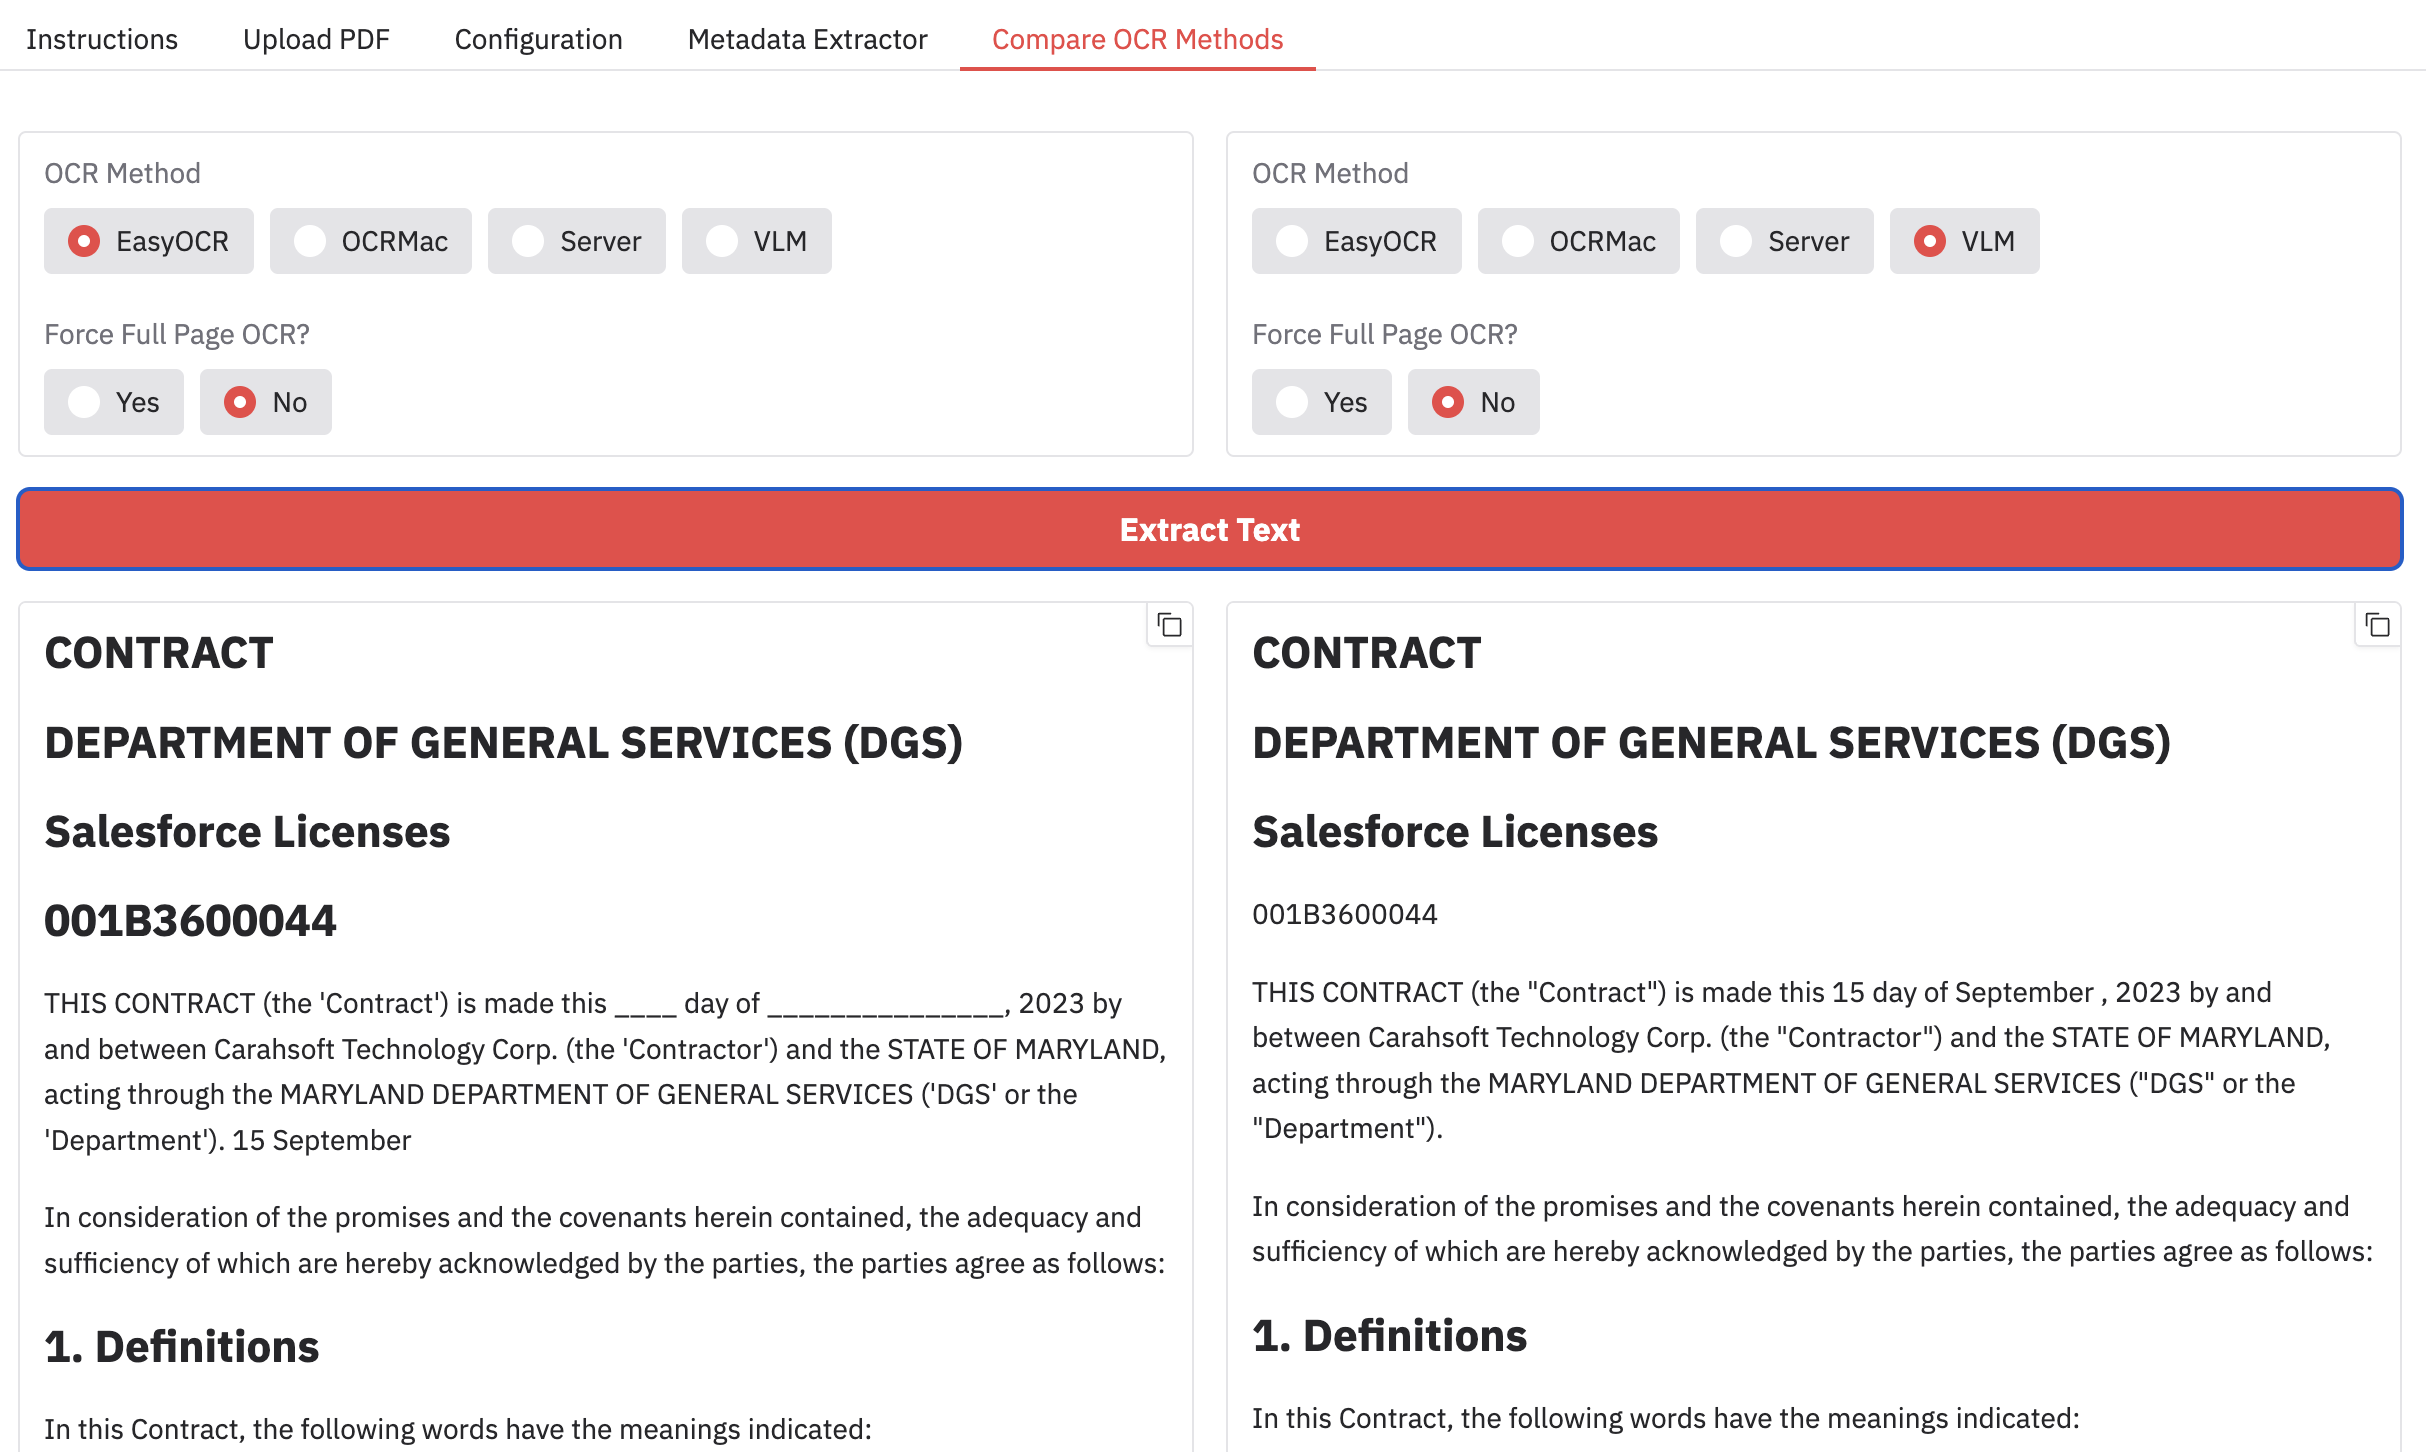
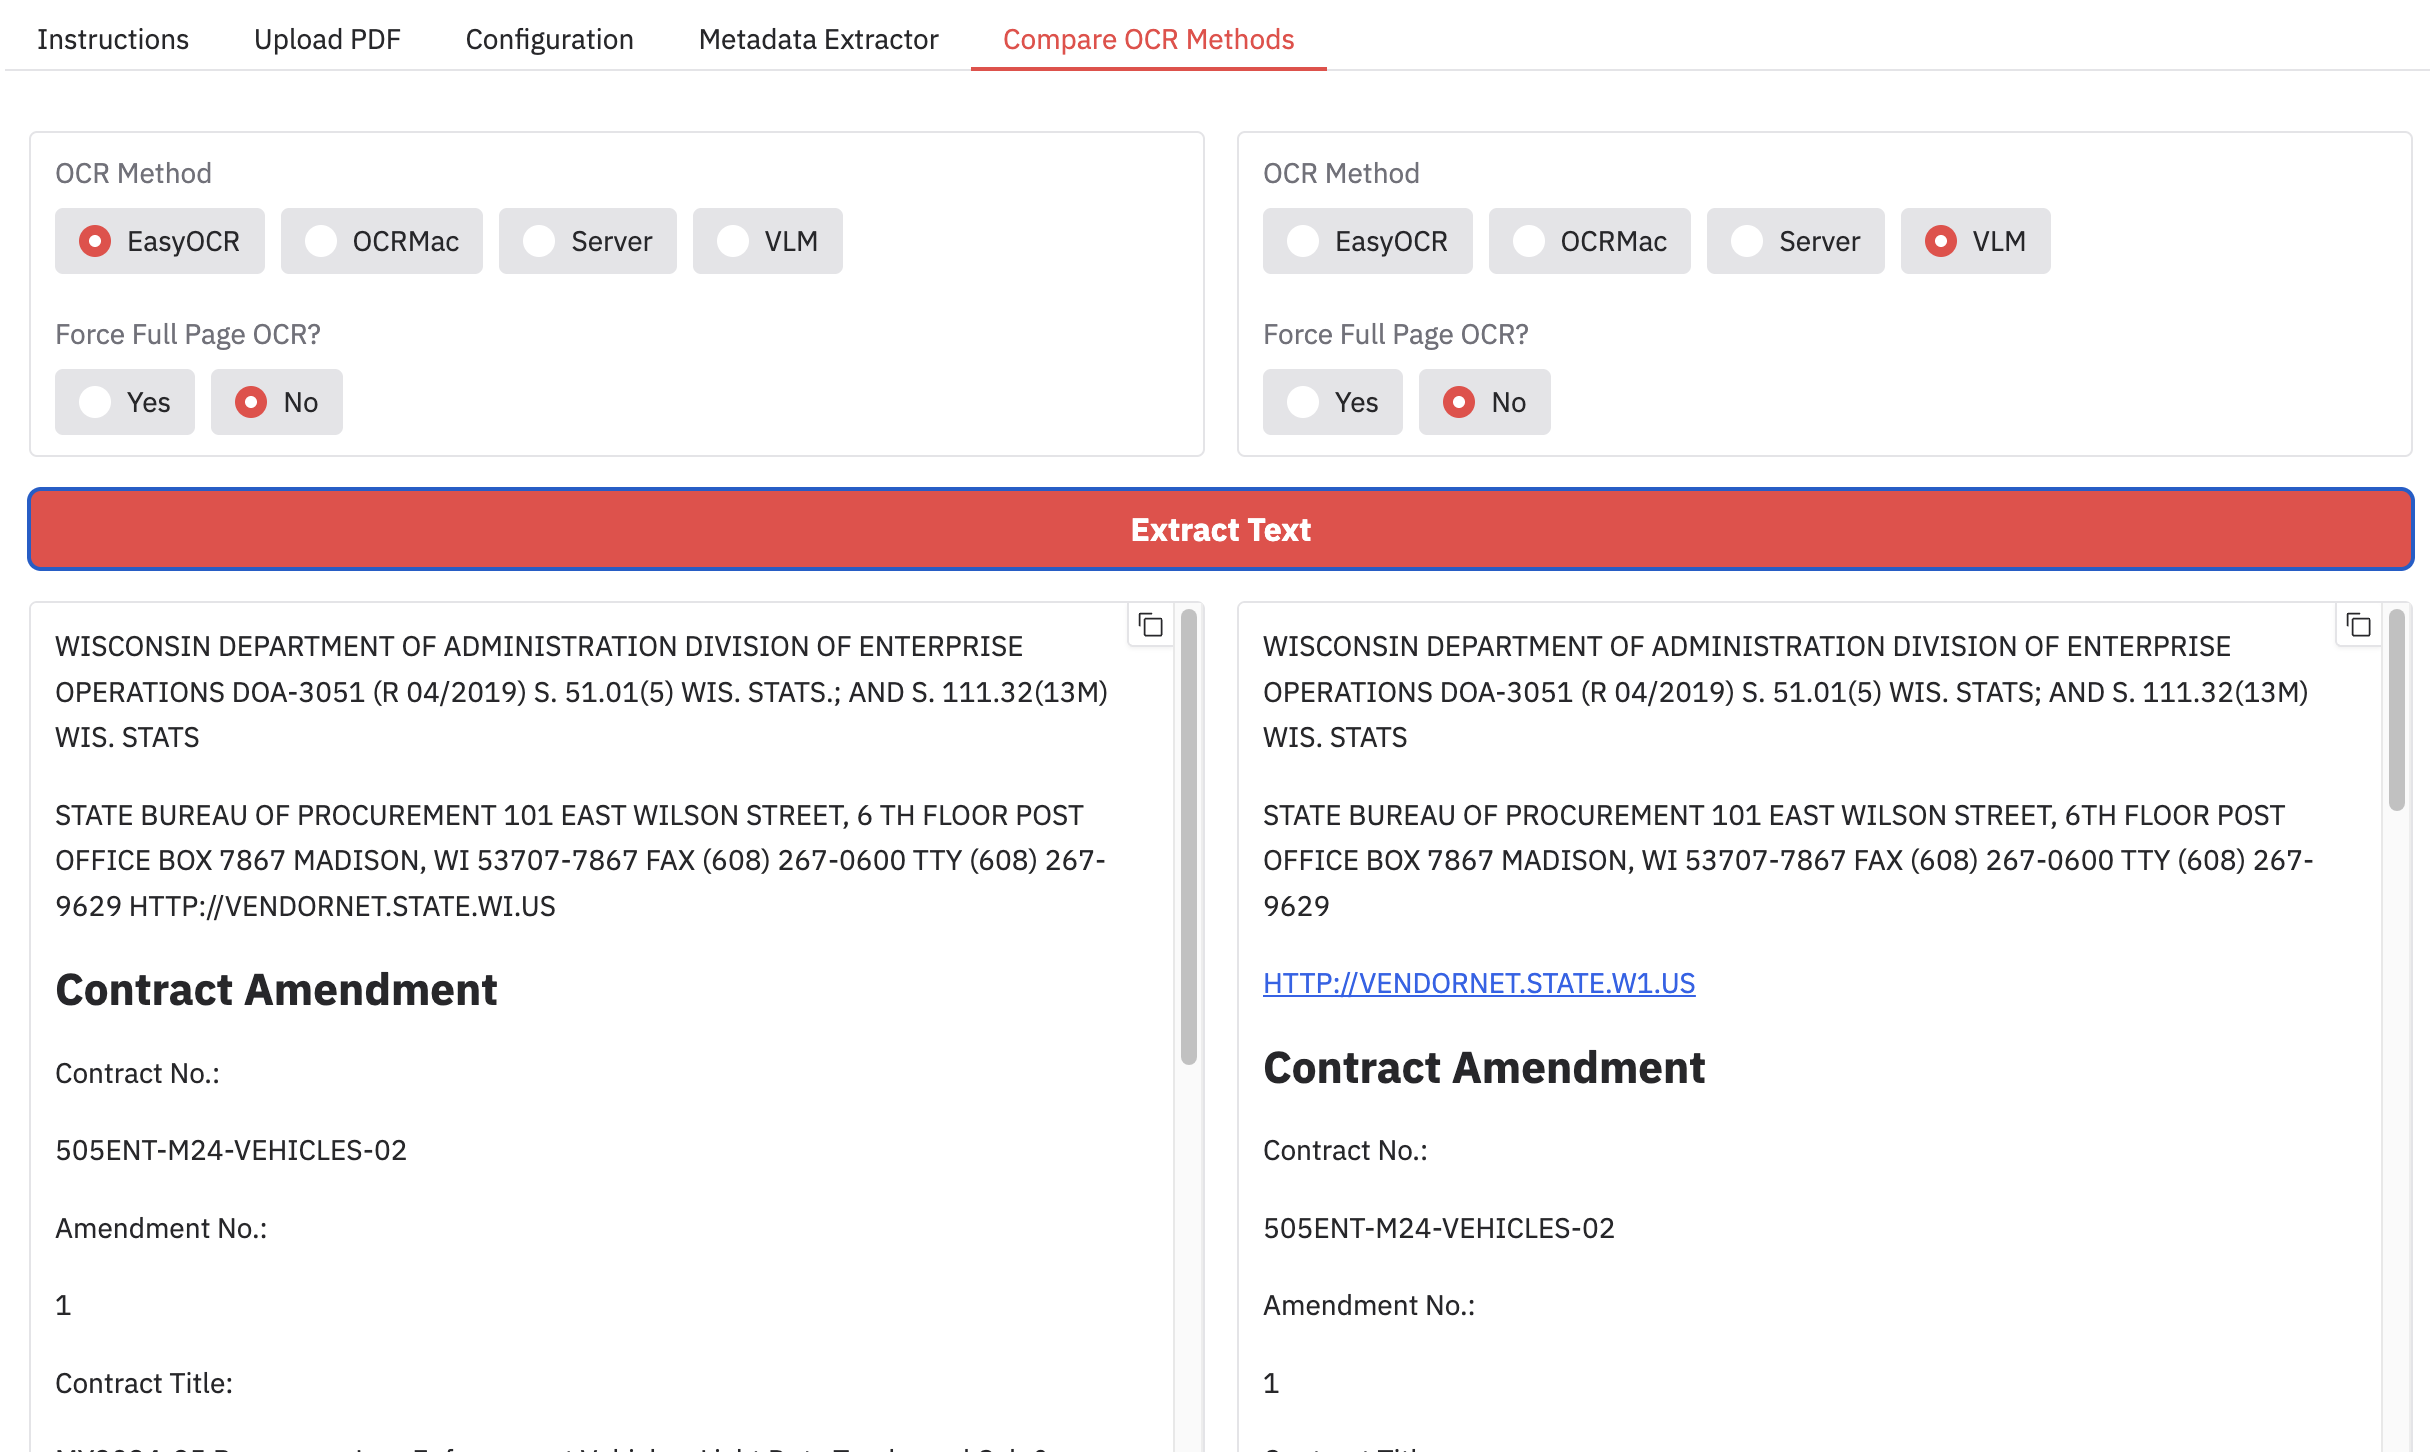
:memo: Update documentation with new example

diff --git a/README.md b/README.md
@@ -14,6 +14,7 @@ Demo showcasing metadata extraction from PDFs using a combination of Docling and
       - [Option 2. Setup With Remote LLM (vLLM, OpenAI, etc.) and/or Docling Server](#option-2-setup-with-remote-llm-vllm-openai-etc-andor-docling-server)
   - [Run the Demo Locally](#run-the-demo-locally)
   - [Run the Demo with Docker/Podman](#run-the-demo-with-dockerpodman)
+  - [Acknowledgments](#acknowledgments)
 
 ## Features
 
@@ -102,3 +103,7 @@ _This option requires that you have either [Podman](https://podman.io/) or [Dock
 
 > [!WARNING]  
 > Docling OCR does not perform well on Mac in containers. If you are using Mac, consider running the demo locally, not forcing full page OCR, or using remote Docling instead. See [#1121](https://github.com/docling-project/docling/issues/1121).
+
+## Acknowledgments
+
+The [contract](https://vendornet.wi.gov/Contract.aspx?Id=dfa85fb8-c9d5-ee11-904e-00505684483d) used in the demo is a publicly available PDF provided by Wisconsin State's [VendorNet](https://vendornet.wi.gov/).
